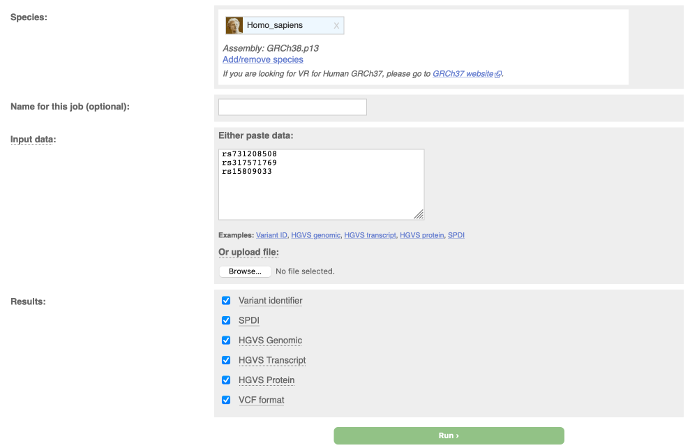
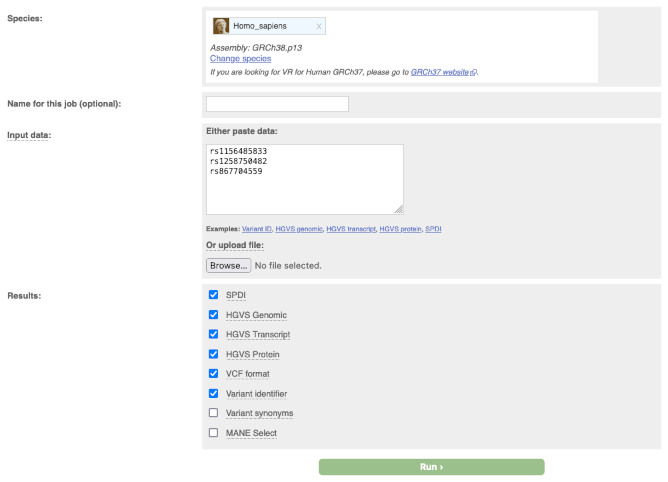
Update Variant Recoder docs

diff --git a/docs/htdocs/info/docs/tools/vep/recoder/index.html b/docs/htdocs/info/docs/tools/vep/recoder/index.html
@@ -81,7 +81,6 @@ tr:nth-child(odd) {background-color: #f0f0f0;}
               </li>
 
               <li><b>Results:</b> you can choose which type of data format to return. The supported
-              <li><b>Results:</b> you can choose which type of data format to return. The supported
               formats are the same as the input plus the format <a href="/info/docs/tools/vep/vep_formats.html#vcf">VCF</a>. </li>
   
           </ol>
@@ -158,6 +157,8 @@ tr:nth-child(odd) {background-color: #f0f0f0;}
     <li><b>hgvsp:</b> HGVS protein nomenclature</li>
     <li><b>spdi:</b> Genomic SPDI notation</li>
     <li><b>vcf_string:</b> VCF format (optional)</li>
+    <li><b>var_synonyms:</b> Extra known synonyms for co-located variants (optional)</li>
+    <li><b>mane_select:</b> MANE Select (Matched Annotation from NCBI and EMBL-EBI) Transcripts (optional)</li>
     <li><b>warnings:</b> Warnings generated e.g. for invalid HGVS</li>
   </ul>
 
@@ -342,9 +343,24 @@ tr:nth-child(odd) {background-color: #f0f0f0;}
       <td>Write pre-formatted indented JSON</td>
     </tr>
     <tr>
+      <td><pre>--vcf_string</pre></td>
+      <td></td>
+      <td>Returns the VCF format in a string</td>
+    </tr>
+    <tr>
+      <td><pre>--var_synonyms</pre></td>
+      <td></td>
+      <td>Extra known synonyms for co-located variants</td>
+    </tr>
+    <tr>
+      <td><pre>--mane_select</pre></td>
+      <td></td>
+      <td>Returns MANE Select transcripts in HGVS format (e.g. hgvsg, hgvsc, hgvsp)</td>
+    </tr>
+    <tr>
       <td><pre>--fields [field1,field2]</pre></td>
       <td></td>
-      <td><p>Limit the output fields. Comma-separated list, one or more of: id, hgvsg, hgvsc, hgvsp, spdi, vcf_string. e.g.:</p>
+      <td><p>Limit the default output fields. Comma-separated list, one or more of: id, hgvsg, hgvsc, hgvsp, spdi. e.g.:</p>
         <pre class="code sh_sh">./variant_recoder --id "AGT:p.Met259Thr" --fields id,hgvsc</pre>
       </td>
     </tr>
